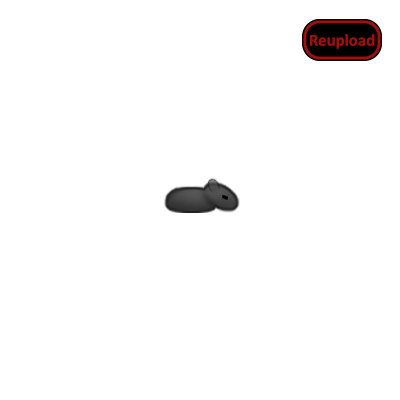
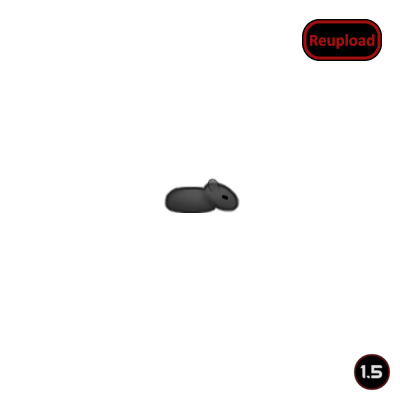
Mod updated for 1.5 and passed autotests

Changed region(s): [[0.87, 0.87, 0.99, 0.99]]

diff --git a/README.md b/README.md
@@ -24,11 +24,13 @@ Rimrats are a native animal to the rimworlds and pre-date the wars that had take
 
 -  See if the the error persists if you just have this mod and its requirements active.
 -  If not, try adding your other mods until it happens again.
--  Post your error-log using https://steamcommunity.com/workshop/filedetails/?id=818773962]HugsLib and command Ctrl+F12
+-  Post your error-log using https://steamcommunity.com/workshop/filedetails/?id=818773962]HugsLib or the standalone https://steamcommunity.com/sharedfiles/filedetails/?id=2873415404]Uploader and command Ctrl+F12
 -  For best support, please use the Discord-channel for error-reporting.
 -  Do not report errors by making a discussion-thread, I get no notification of that.
 -  If you have the solution for a problem, please post it to the GitHub repository.
+-  Use https://github.com/RimSort/RimSort/releases/latest]RimSort to sort your mods
 
 
 
+https://steamcommunity.com/sharedfiles/filedetails/changelog/2533942903]![Image](https://img.shields.io/github/v/release/emipa606/Rimrats?label=latest%20version&style=plastic&color=9f1111&labelColor=black)
 
